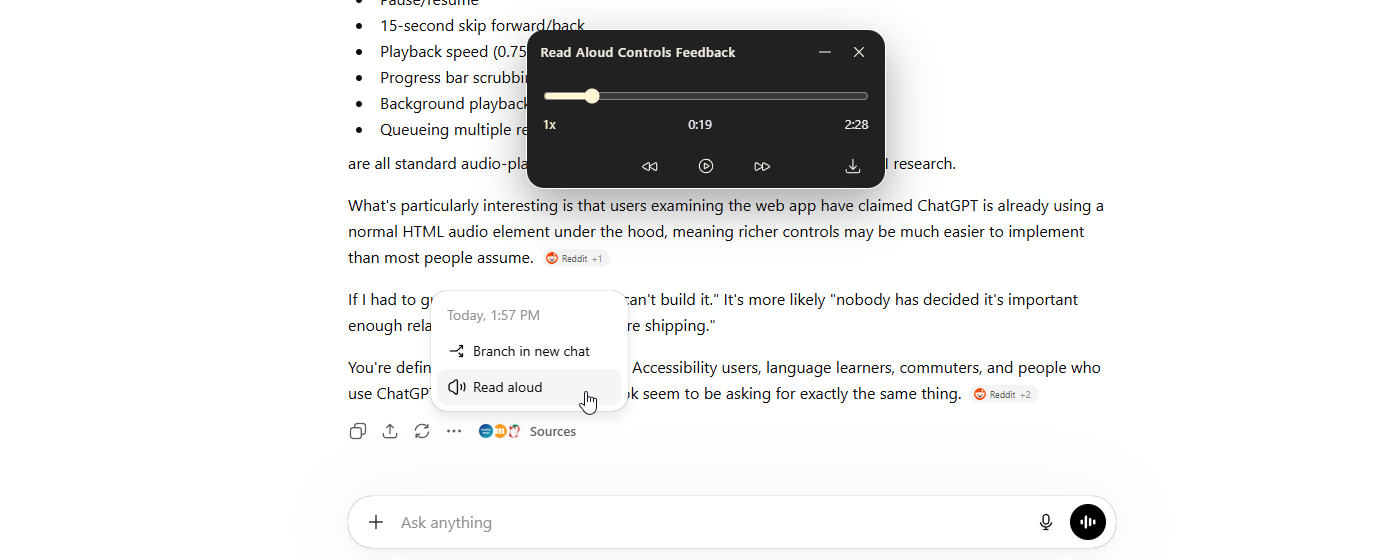
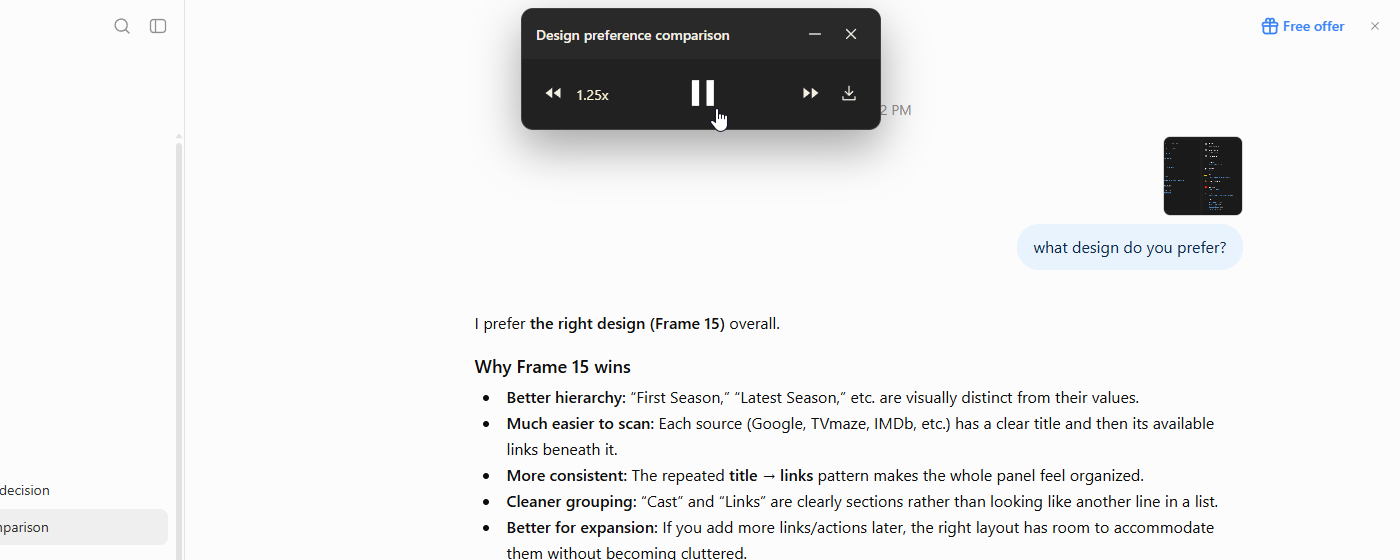
docs: update images and readme

diff --git a/README.md b/README.md
@@ -8,17 +8,6 @@ Audio player for the 'Read Aloud' feature
 
 This extension adds audio player controls when an Audio element is being played with the 'Read Aloud' feature of ChatGPT.
 
-# RUNTIMES:
-
-1. This player can be installed as a [Chrome extension](https://chromewebstore.google.com/detail/audio-player-for-chatgpt/pgogbhnjghehkajgclkpgplflfnjcgpm)
-
-2. It can also be added as a script for violentmonkey/tampermonkey.  
-   For that, just copy/paste the code in src/js/content-script.js.  
-   It's ready to go.
-
-3. For quick UI checks during development, open src/test.html in a browser.
-   That page loads the same standalone content script in a lightweight test mode,
-   so you can inspect the player without reloading chatgpt.com.
 
 # HOW IT WORKS:
 
@@ -27,14 +16,7 @@ This extension adds audio player controls when an Audio element is being played 
 -If so, it enables its native audio controls (audio.controls = true).  
 -It positions the player next to the Share button.
 
-# KNOWN ISSUES:
+# SEEK BAR AND DURATION:
 
-1. In Edge (Chromium), the first time an audio is played, the player may not show its duration for the first 3 to 7 seconds.  
-   That's because the audio element generated by ChatGPT may have a 'duration' property of value 'Infinity', initially.  
-   It may be caused by the audio being streamed, and it shows the duration once it's finished downloading.
-2. In Firefox, the audio always has around 12 seconds of extra duration (not silence, just skips 12 seconds at the end).
-   So it's not worth publishing the extension for FF just yet.
-
-These issues could be probably fixed by intercepting the audio element returned by ChatGPT's call to the synthesizer.  
-That approach is used in this repo: https://github.com/drengskapur/chatgpt-audio-enhancer  
-I'm not using that approach to keep the code minimal, as users will likely copy the code to violentmonkey, and it works perfectly in Chrome.
+This extension used to display a seekbar and a duration timestamp. I had to temporarily hide that functionality, as ChatGPT makes frequent changes to how they deliver the audio, making the seekbar functionality fragile.  
+Right now the focus is on providing a stable and reliable way to pause/resume the audio.
